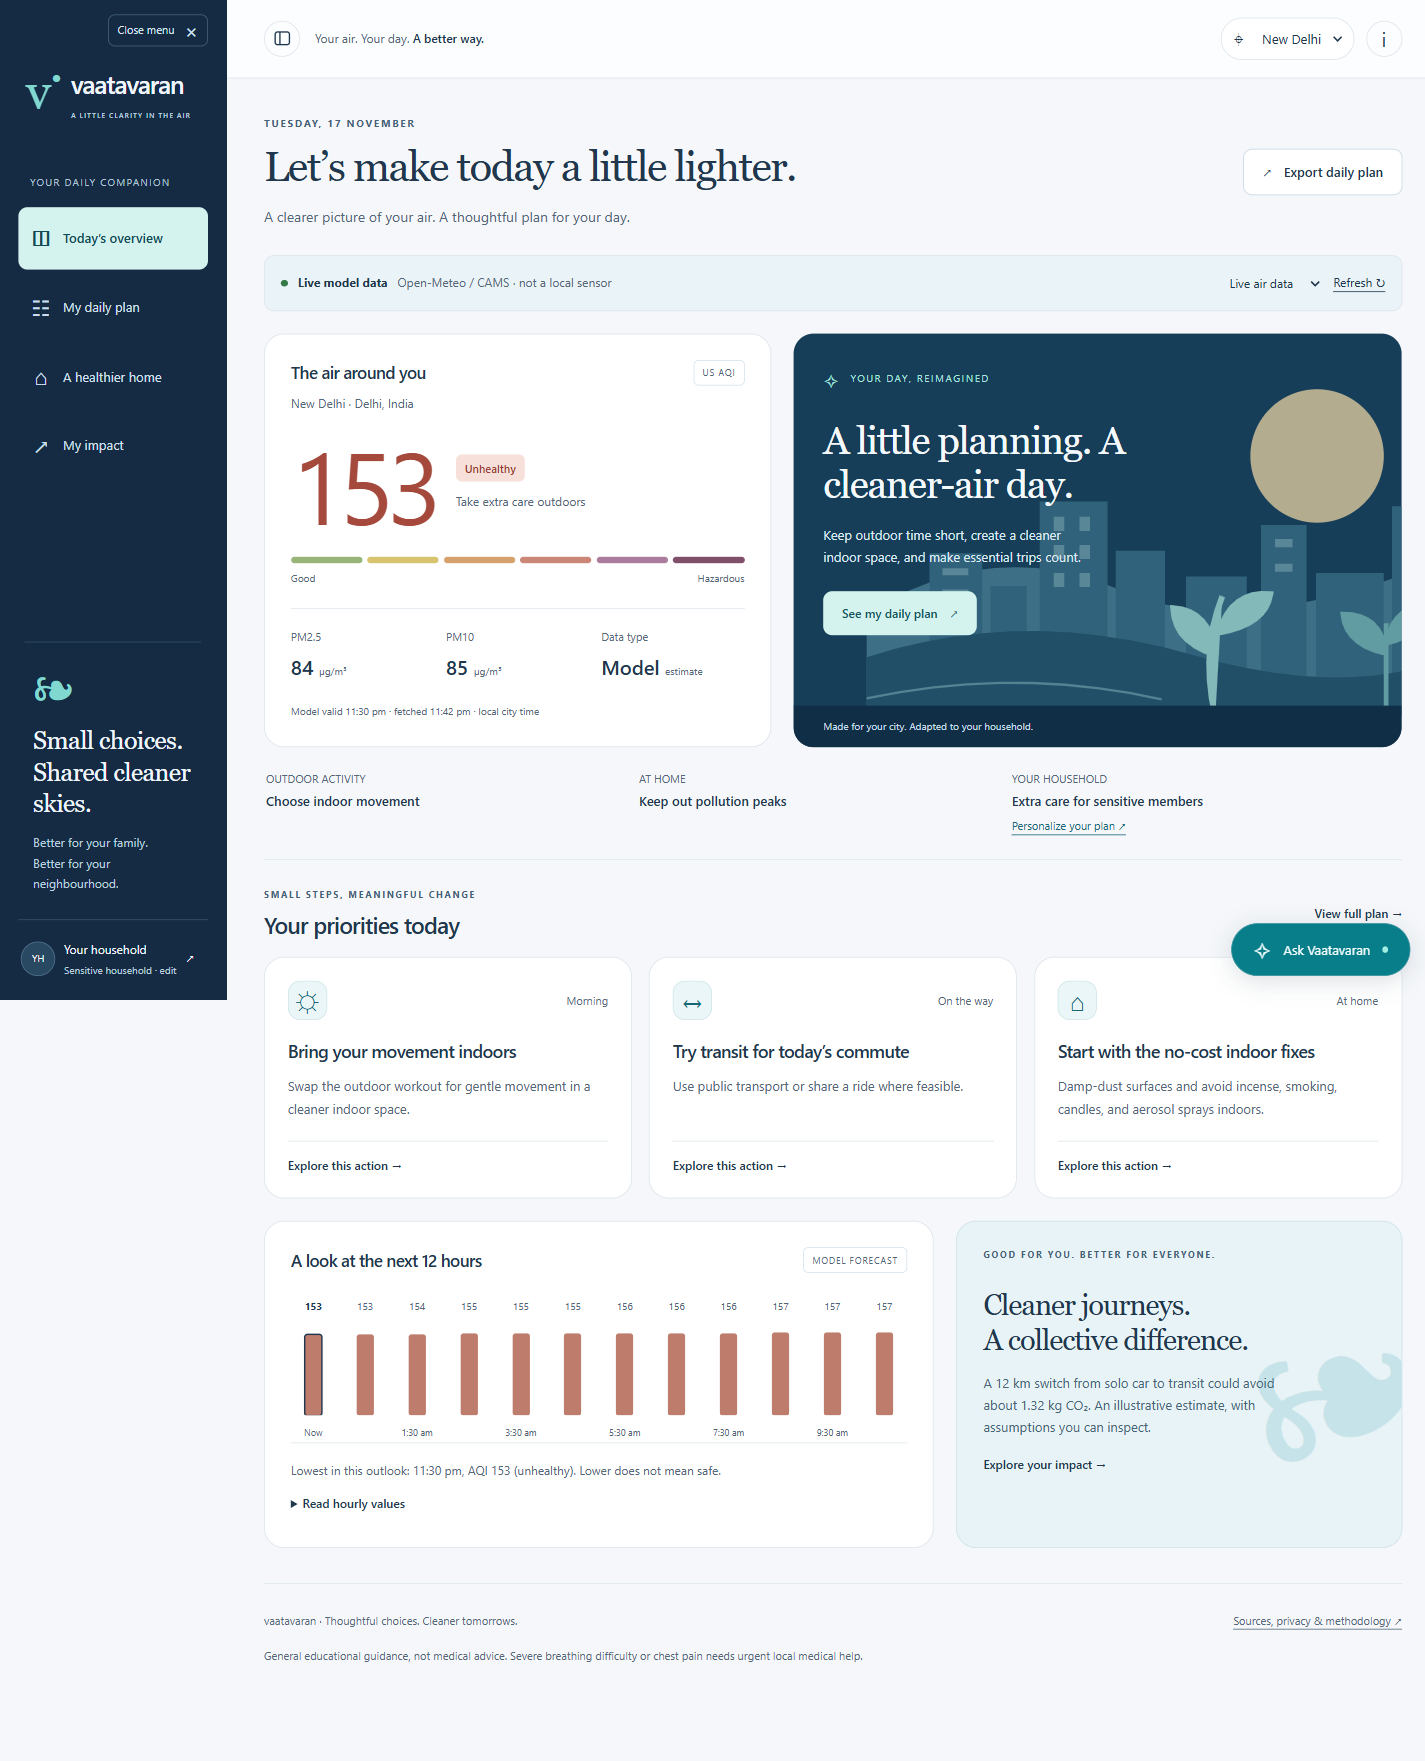
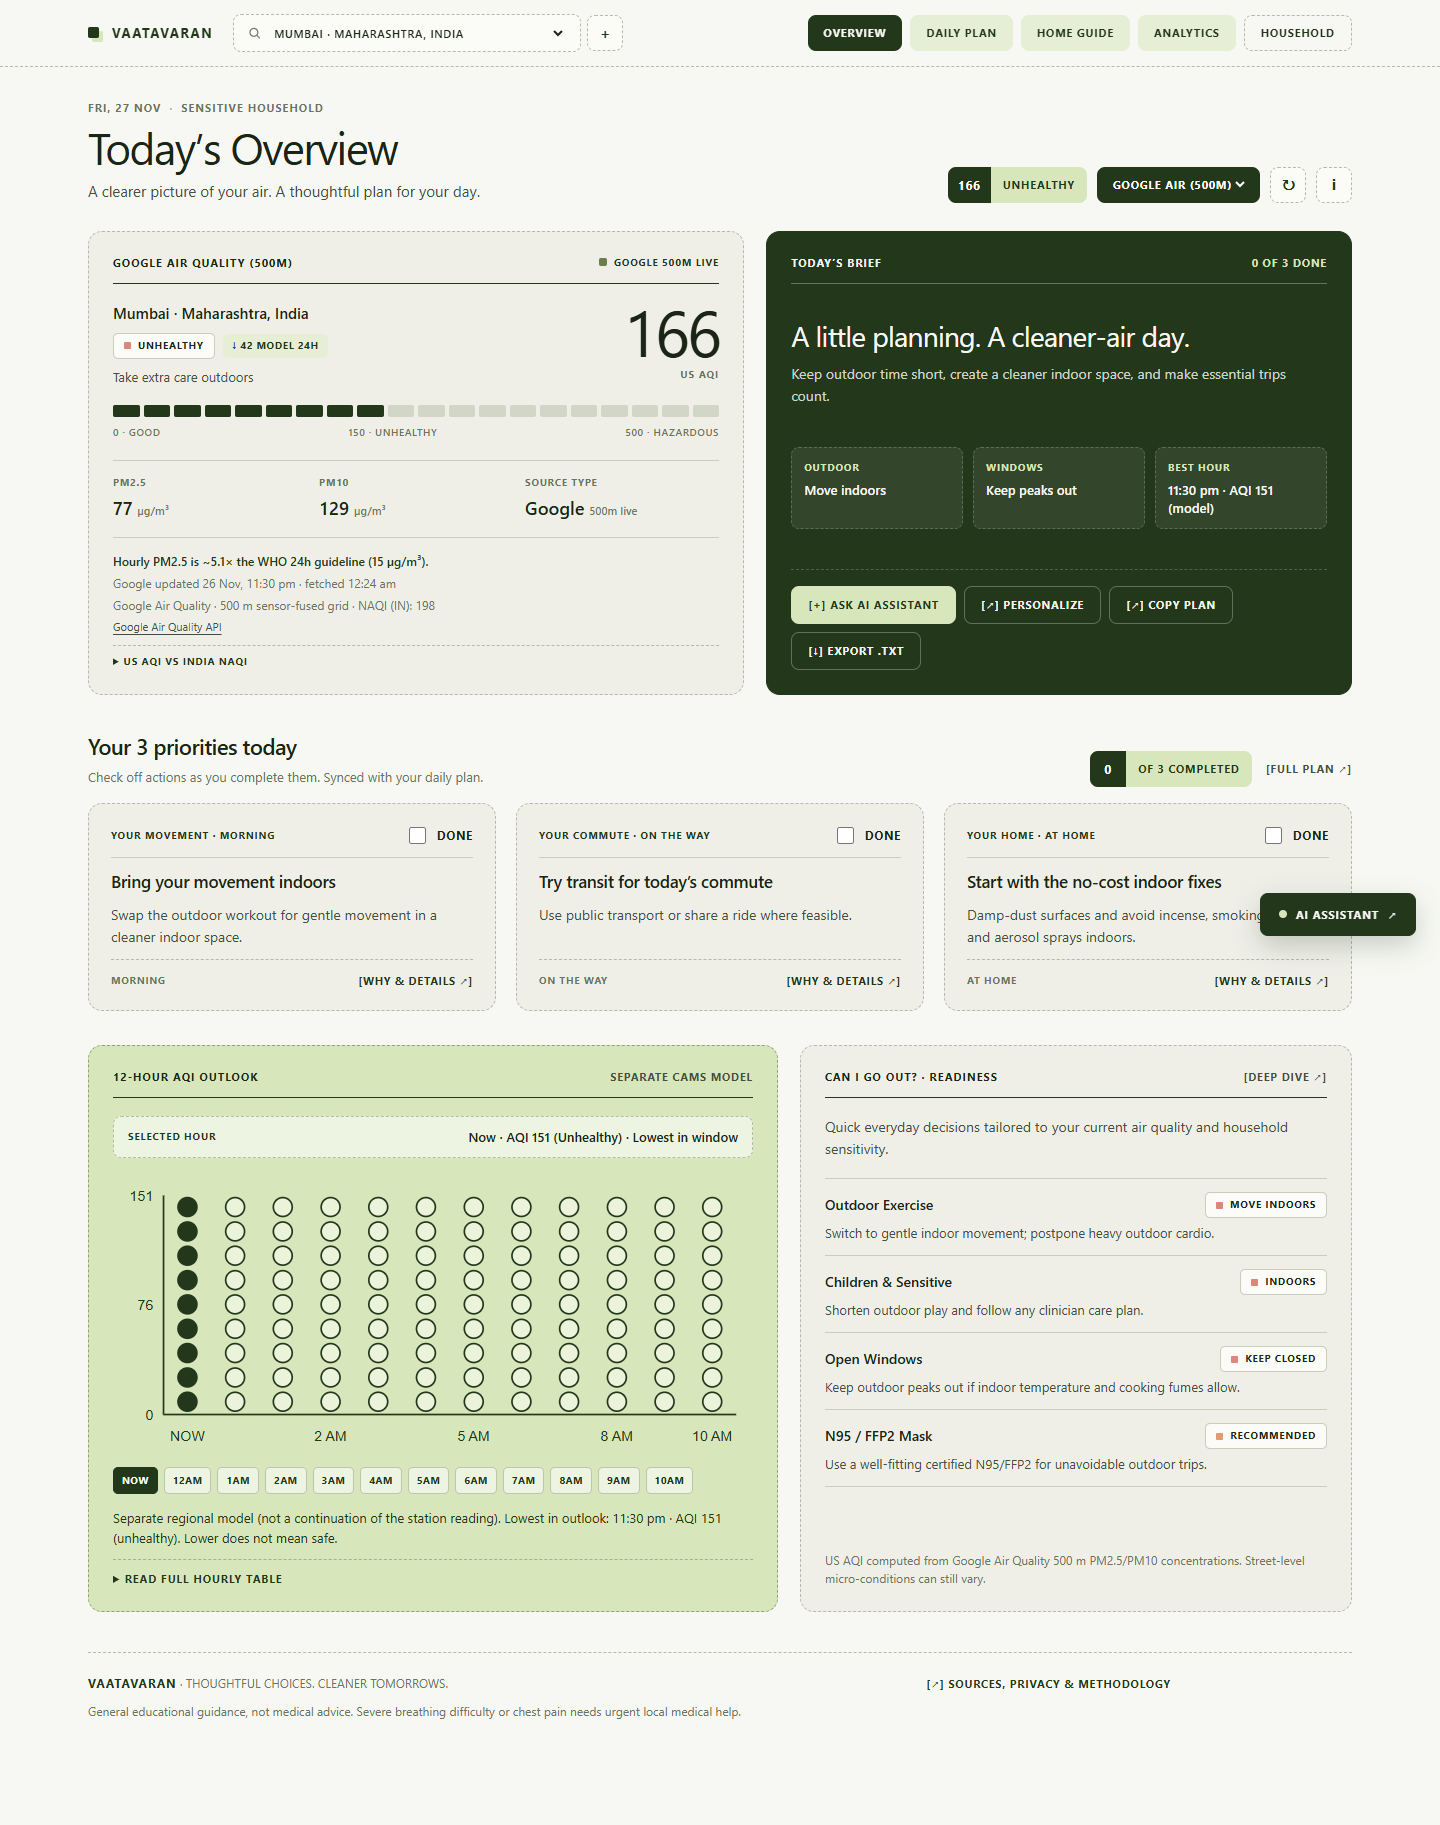
Update README, methodology dialog, and preview screenshot for Google Air 500m UI

diff --git a/public/index.html b/public/index.html
@@ -769,15 +769,24 @@
       <div class="prose">
         <h3>Data you can trace</h3>
         <p>
-          Demo mode uses fictional, fixed scenarios for ten Indian cities. Live
-          mode requests modelled air quality from
+          When configured, live mode uses the
+          <a
+            href="https://developers.google.com/maps/documentation/air-quality"
+            target="_blank"
+            rel="noreferrer"
+            >Google Air Quality API</a
+          >
+          (500 m sensor-fused grid, converted to US EPA AQI, cached 10 minutes),
+          with optional WAQI ground-station support. Regional forecasts and
+          12-hour outlooks come from
           <a
             href="https://open-meteo.com/en/docs/air-quality-api"
             target="_blank"
             rel="noreferrer"
             >Open-Meteo and Copernicus CAMS</a
-          >, cached for 10 minutes. This is a model estimate, not a street-level
-          sensor reading. Forecasts can change.
+          >
+          (cached 10 minutes). Demo mode uses fictional, fixed scenarios for ten
+          Indian cities. Forecasts can change.
         </p>
         <h3>One scale, clearly labeled</h3>
         <p>

diff --git a/README.md b/README.md
@@ -4,11 +4,11 @@
 
 Challenge 06 · Urban Air Quality Assistant · [Public repository](https://github.com/immortalfoodie/Vaatavaran)
 
-![Vaatavaran dashboard showing live modelled Delhi air quality, personalized priorities and an hourly outlook](docs/preview.png)
+![Vaatavaran dashboard showing live Mumbai 500m air quality, personalized priorities, activity readiness and 12-hour outlook](docs/preview.png)
 
 ## Run in under a minute
 
-Requires **Node.js 22.9+** (Node 24 recommended) and Git. No dependency installation, framework build, database, or account is needed for the demo.
+Requires **Node.js 22.9+** (Node 24 recommended) and Git. No dependency installation, framework build, database, or account is needed.
 
 ```sh
 git clone https://github.com/immortalfoodie/Vaatavaran.git
@@ -16,10 +16,14 @@ cd Vaatavaran
 npm start
 ```
 
-Open **http://localhost:3000**. With `WAQI_API_TOKEN` configured in `.env`, the default source is a nearby monitoring station via WAQI. Get a free token at https://aqicn.org/data-platform/token/ and restart the server after saving it. Without a station token, the app explicitly labels its Open-Meteo / CAMS regional forecast. Select **Regional forecast** to view that separate model, or **Explore demo** for offline scenarios. Your selected mode is remembered. Failed station requests never silently substitute model or demo readings.
+Open **http://localhost:3000** (defaults to **Mumbai**, with 10 preset Indian cities plus worldwide **Search Any City** via Open-Meteo Geocoding).
+
+- With `GOOGLE_AIR_QUALITY_API_KEY` set in `.env`, the app uses **Google Air Quality API (500 m sensor-fused grid)** converted to US EPA AQI (cached 10 min), paired with a separate Open-Meteo / CAMS 12-hour outlook.
+- With `WAQI_API_TOKEN` set (without Google Air), it supports nearby ground-station observations via WAQI.
+- With no air-quality keys at all, it runs live on **Open-Meteo / Copernicus CAMS** (with 24-hour trend and 12-hour outlook) or offline **Demo scenario** mode.
 
 ```sh
-npm run verify   # syntax, 39 automated tests, and source-size budget
+npm run verify   # syntax, 52 automated tests, and source-size budget
 npm run dev      # restart the server when source files change
 ```
 
@@ -101,15 +105,17 @@ Zero runtime dependencies; a small Node HTTP server and native browser modules k
 
 ```text
 public/index.html       Semantic dashboard, views, settings and chat dialogs
-public/style.css        Responsive visual system, focus and reduced-motion styles
-public/app.js           Interaction controller: navigation, settings, exports and chat
-public/views.js         Stateless rendering of dashboard, actions and forecast
-public/engine.js        Shared pure AQI, planning, impact and local-guide logic
-server.mjs             HTTP routes, static allowlist, input validation and limits
-lib/air-quality.mjs     Live-data parsing, per-city cache and request coalescing
+public/style.css        Clinical biotech responsive visual system
+public/app.js           Interaction controller: navigation, city search, alerts, exports and chat
+public/views.js         Modular stateless renderers & CSP-safe SVG visualizations
+public/engine.js        Shared pure AQI, planning, activity readiness, impact and local-guide logic
+server.mjs              HTTP server & Vercel default handler, static cache, validation and limits
+vercel.json             Vercel security headers configuration
+lib/google-air.mjs      Google Air Quality API (500m) client and US EPA AQI conversion
+lib/station-air.mjs     WAQI ground-station parser and provenance checks
+lib/air-quality.mjs     Open-Meteo/CAMS parsing, 24h delta, geocoding and 10-min cache
 lib/assistant.mjs       Server-only Gemini adapter and grounding instructions
-test/engine.test.mjs    AQI boundaries and recommendation invariants
-test/server.test.mjs    HTTP, security, caching and provider-failure tests
+test/*.test.mjs         52 automated unit, API, security and provider tests
 scripts/check-size.mjs  Source budget check (<10 MB)
 .github/workflows/ci.yml Automated checks on push
 ```
@@ -128,7 +134,7 @@ For Internet hosting, run behind HTTPS, set `HOST=0.0.0.0` and `APP_ORIGIN=https
 
 ## Validation
 
-`npm run verify` runs 39 deterministic tests without external network or paid AI calls. Tests use real ephemeral localhost HTTP servers and mock only external providers. Coverage includes all AQI boundaries, invalid values, sensitive households, severe-smog travel, budget-aware indoor advice, carbon arithmetic, stale data, caching, origin checks, malformed/oversized requests, secret-file denial, consent, trusted context, emergency handling and provider fallbacks.
+`npm run verify` runs 52 deterministic tests without external network or paid AI calls. Tests use real ephemeral localhost HTTP servers and mock only external providers. Coverage includes all AQI boundaries, invalid values, sensitive households, activity readiness, severe-smog travel, budget-aware indoor advice, carbon arithmetic, 24h deltas, geocoding, Google Air Quality 500m parsing/caching, stale data, caching, origin checks, malformed/oversized requests, secret-file denial, consent, trusted context, emergency handling and provider fallbacks.
 
 Browser QA covers desktop (1440 px), mobile (390 px), settings updates, persisted checklist state, city switching, assistant responses, literal rendering of HTML-like input, export downloads, impact calculations, simulated live outage and keyboard dialog dismissal. See [validation notes](docs/VALIDATION.md) for final results and limitations.
 
